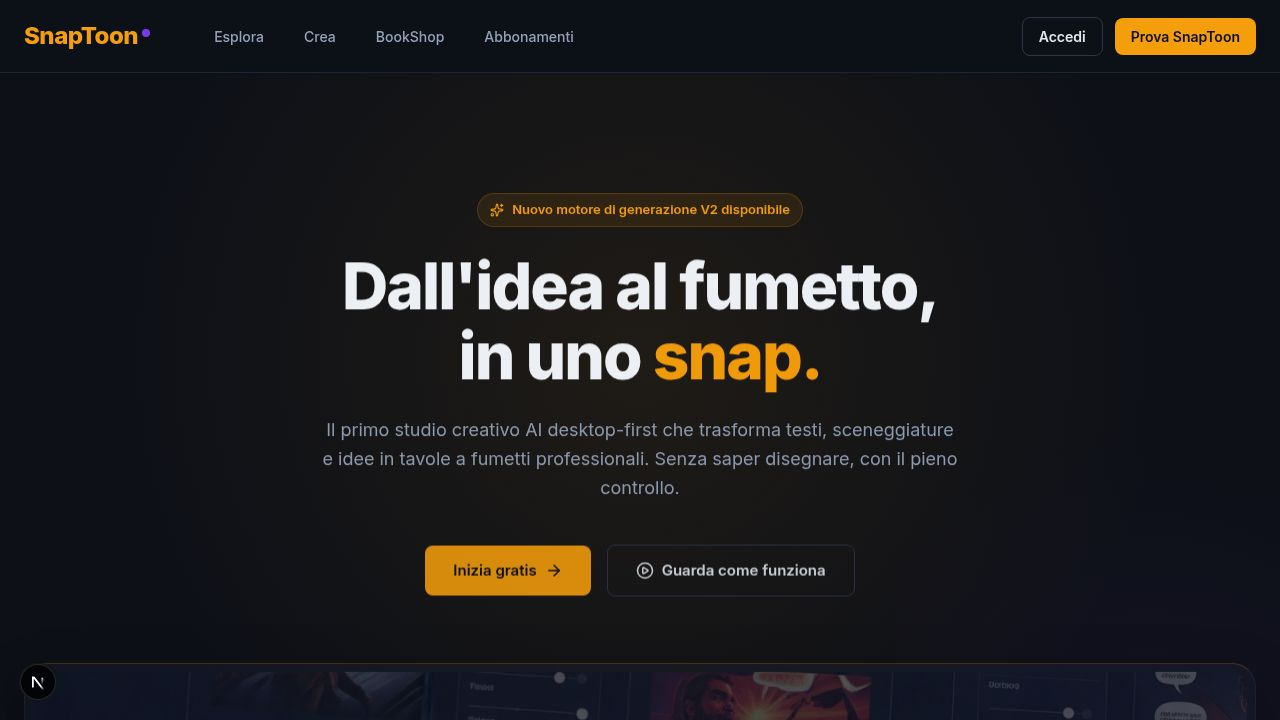
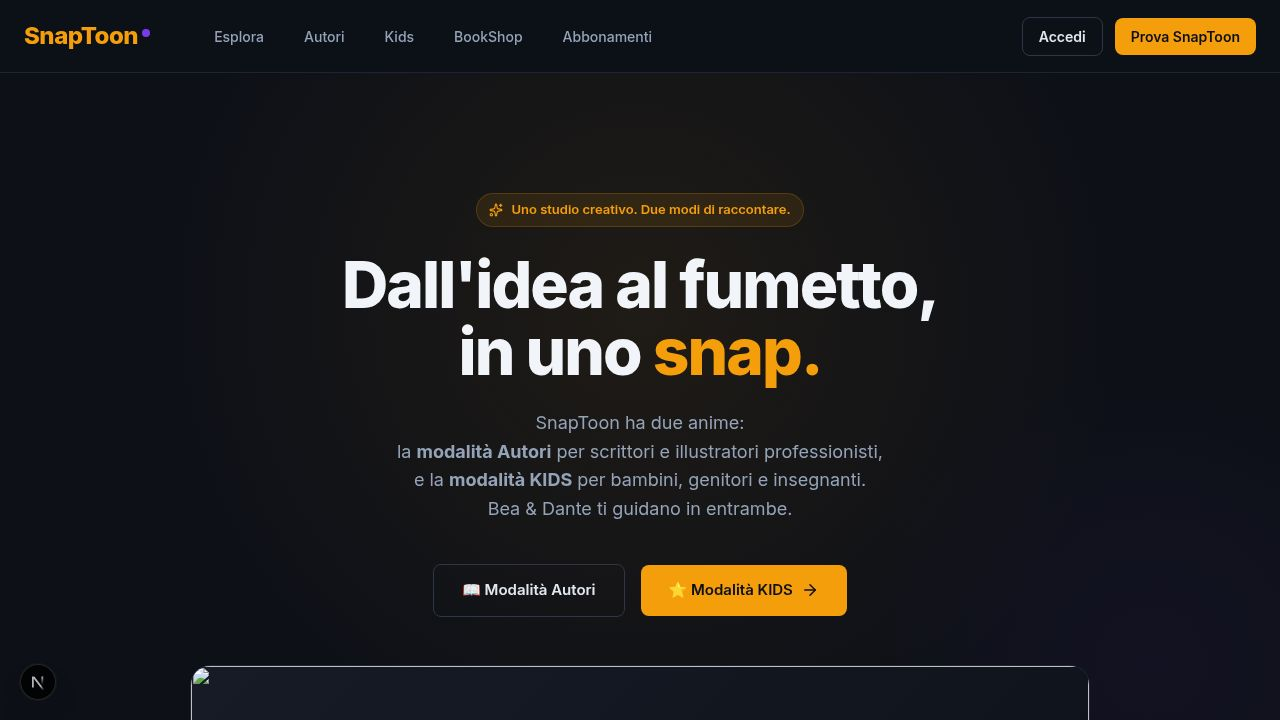
Home: intro su 4 righe + rimozione didascalie 'con Bea & Dante'
- Landing.tsx: testo intro spezzato su 4 righe con <br />, rimosso il componente BeaDanteSignature e tutte le 6 firme sotto le illustrazioni
- opengraph.jpg: aggiornato con la nuova homepage riprogettata

Sync dal workspace Replit (Replit Agent)

diff --git a/web/components/Landing.tsx b/web/components/Landing.tsx
@@ -5,24 +5,6 @@ import { useEffect, useState } from "react";
 import { SiteShell, MediaFrame } from "@/components/site";
 import { apiFetch, type CreaImagesOut } from "@/lib/api";
 
-// Firma discreta sotto ogni illustrazione (guide del sito).
-function BeaDanteSignature() {
-  return (
-    <div
-      style={{
-        marginTop: 10,
-        fontSize: 12,
-        color: "#64748B",
-        letterSpacing: "0.06em",
-        textAlign: "center",
-        fontStyle: "italic",
-      }}
-    >
-      con Bea &amp; Dante — le tue guide
-    </div>
-  );
-}
-
 export default function Landing() {
   const [overrides, setOverrides] = useState<Record<string, string>>({});
 
@@ -162,10 +144,15 @@ function HeroSection({
               margin: "0 auto 40px auto",
             }}
           >
-            SnapToon ha due anime: la <strong>modalità Autori</strong> per
-            scrittori e illustratori professionisti, e la{" "}
-            <strong>modalità KIDS</strong> per bambini, genitori e
-            insegnanti. Bea &amp; Dante ti guidano in entrambe.
+            SnapToon ha due anime:
+            <br />
+            la <strong>modalità Autori</strong> per scrittori e illustratori
+            professionisti,
+            <br />
+            e la <strong>modalità KIDS</strong> per bambini, genitori e
+            insegnanti.
+            <br />
+            Bea &amp; Dante ti guidano in entrambe.
           </p>
 
           <div
@@ -204,7 +191,6 @@ function HeroSection({
             aspect="16 / 9"
             rounded={20}
           />
-          <BeaDanteSignature />
         </div>
       </div>
     </section>
@@ -312,7 +298,6 @@ function AutoriSection({
             aspect="4 / 3"
             rounded={16}
           />
-          <BeaDanteSignature />
         </div>
       </div>
     </section>
@@ -368,7 +353,6 @@ function KidsSection({
             aspect="4 / 3"
             rounded={16}
           />
-          <BeaDanteSignature />
         </div>
         <div style={{ order: 1 }}>
           <span className="eyebrow">⭐ Per Bambini, Genitori, Insegnanti</span>
@@ -496,7 +480,6 @@ function EsploraSection({
             aspect="16 / 9"
             rounded={16}
           />
-          <BeaDanteSignature />
         </div>
         <a
           href="/esplora"
@@ -537,7 +520,6 @@ function BookshopSection({
             aspect="4 / 3"
             rounded={16}
           />
-          <BeaDanteSignature />
         </div>
         <div>
           <span className="eyebrow">📚 BookShop</span>
@@ -618,7 +600,6 @@ function FinalCtaSection({
             aspect="4 / 3"
             rounded={16}
           />
-          <BeaDanteSignature />
         </div>
         <h2
           style={{